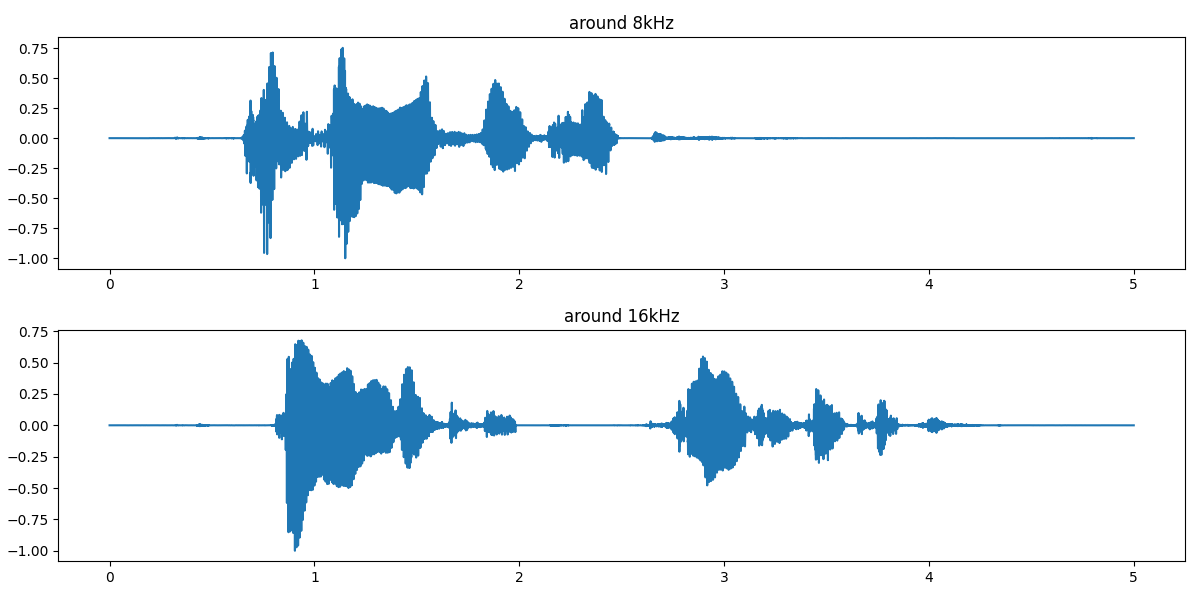
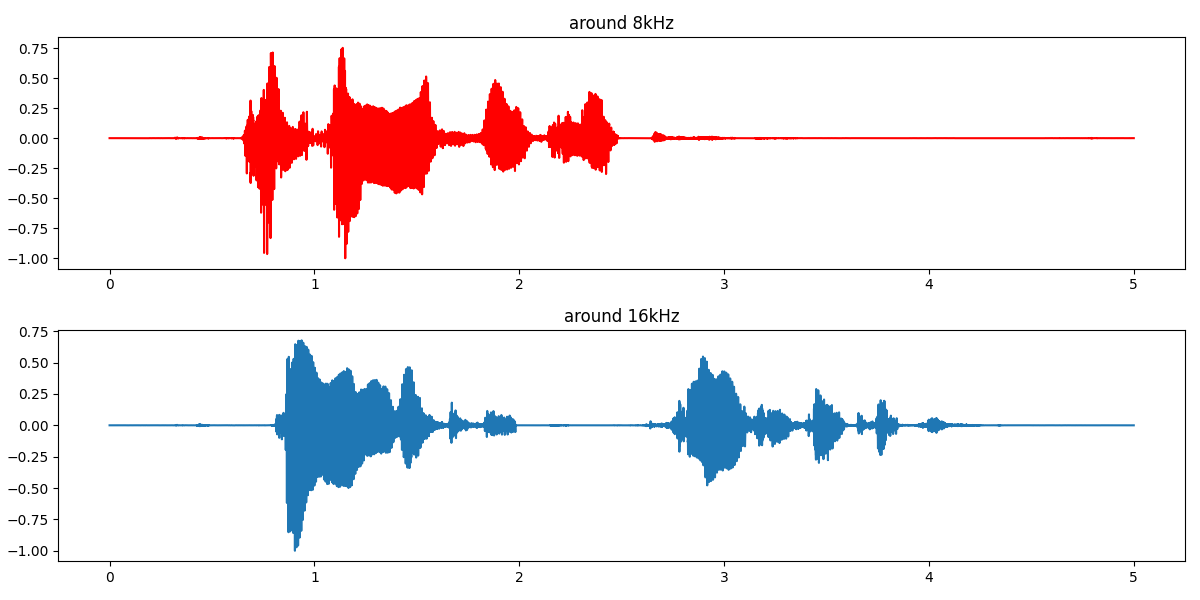
changed graph color

Changed region(s): [[0.0925, 0.09, 0.9558, 0.42]]

diff --git a/demultiplexer_shaw.py b/demultiplexer_shaw.py
@@ -41,7 +41,7 @@ t = np.arange(len(sig8k)) / fs
 
 plt.figure(figsize=(12, 6))
 plt.subplot(2,1,1)
-plt.plot(t, sig8k)
+plt.plot(t, sig8k, color = "red")
 plt.title("around 8kHz")
 plt.subplot(2,1,2)
 plt.plot(t, sig16k)
